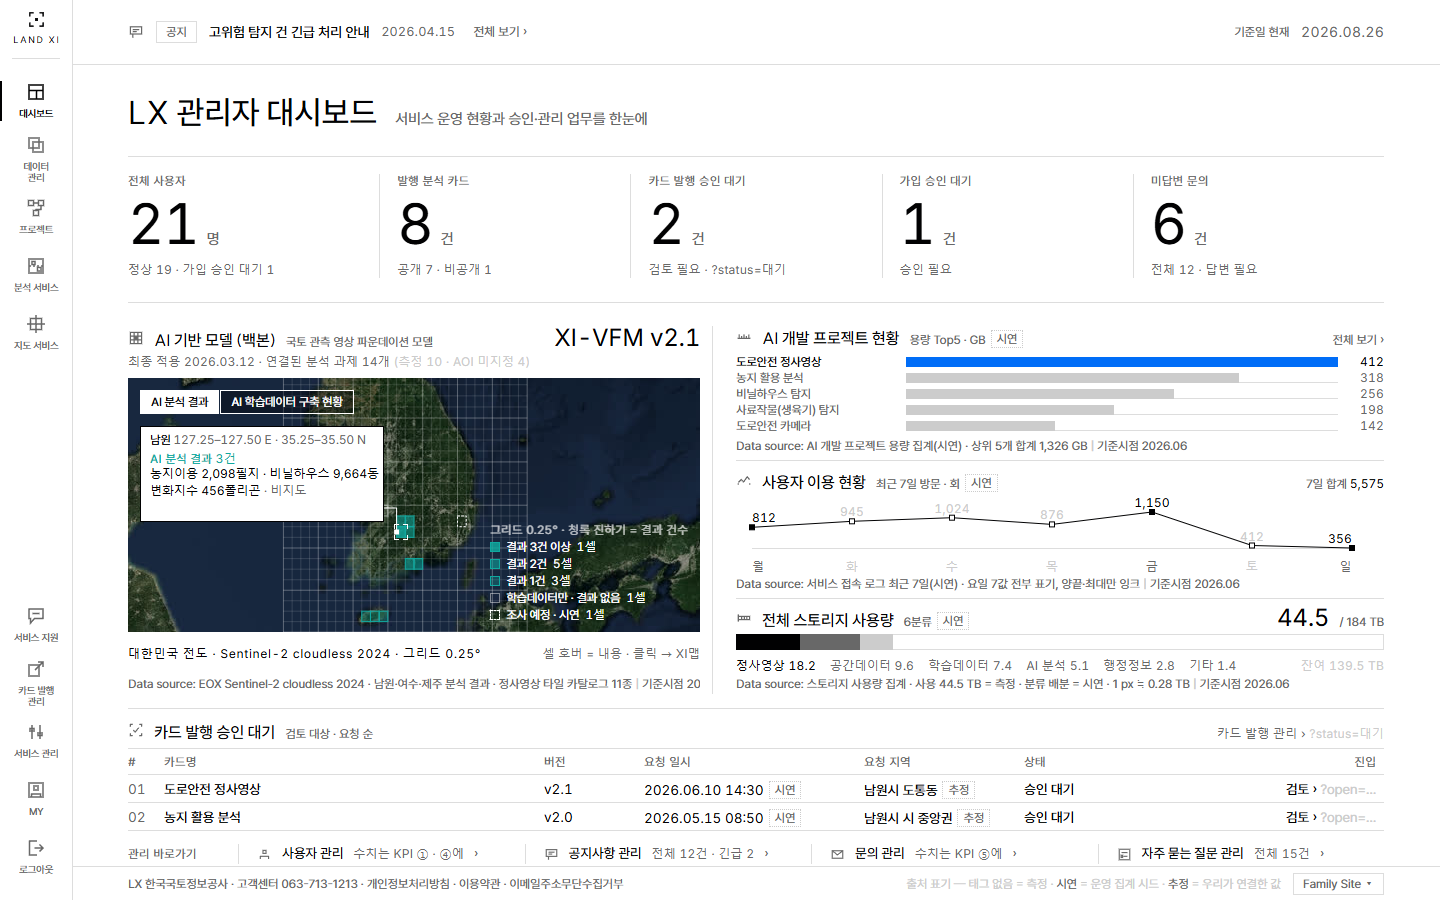
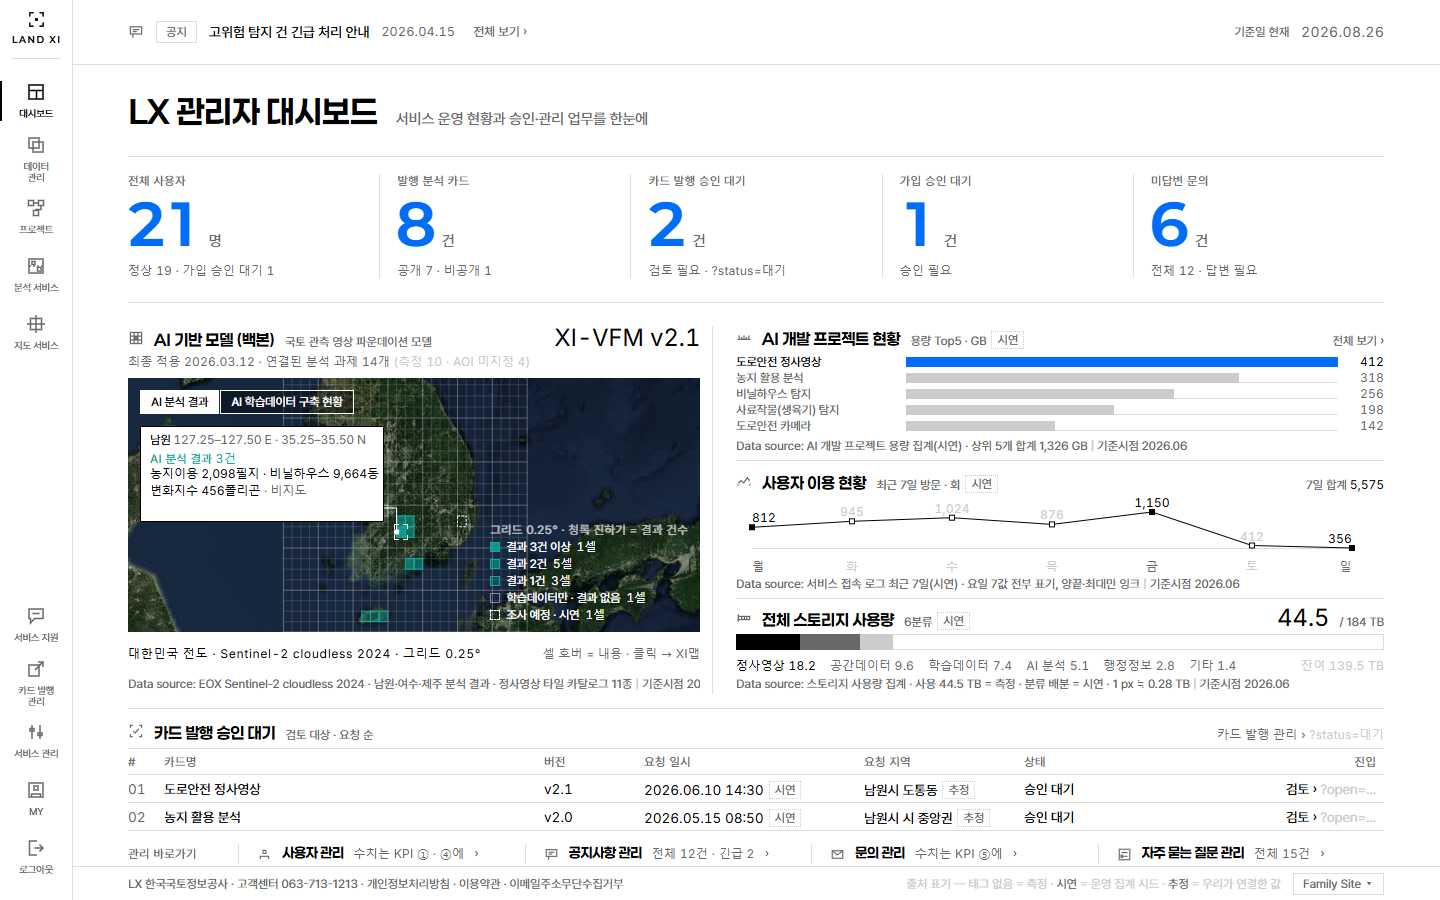
design(system): Paperlogy + Pretendard · T3 를 법전으로 — fonts-system.css 토큰, dataset T3 재스킨, B5 마스터 헬멧·KPI 액센트, NOTES §16
클라이언트 결정(2026-08-27, fonts.html T3): "일단 모든 글꼴과 스타일은 Paperlogy + Pretendard, T3로 간다."
- landxi/proto/fonts-system.css: Paperlogy 700/800 @font-face(눈누 jsDelivr) + Pretendard + Inter, --font-display/--font-body/--font-num, --accent, --tint-1 #E8F1FF, --tint-2 #D6E6FF
- design/system.md §1·§2 개정(표시 Paperlogy 700/800, 본문 Pretendard 400/500, 큰 숫자 Paperlogy·소형 표 Inter tnum, 액센트 허용 자리, 틴트, 채운 파란 버튼 금지)
- dataset.css: KPI 96% Paperlogy 700 액센트, 활성 칩 액센트+틴트, 링크·포커스 액센트, 선택 행 틴트
- B5-DataMgmt 마스터·gen-b5.mjs: 활성 칩 chip(t,n,on) 틴트, 설계 주석 문장 삭제(클라이언트 "불필요한 글자 전체 삭제")
- e2e proto-dataset: 칩·액센트 단언을 T3 로 갱신 (16/16 · proto-scrub 4/4)
- 앞선 부분(system.css·v3-tokens.css·scrub·film·charts·B5 헬멧)은 e26570b 에 함께 들어갔다.

Claude-Session: https://claude.ai/code/session_01WM9MJXSpdbCfwY8af3obk9

diff --git a/design-canvas/v2/B5-DataMgmt.dc.html b/design-canvas/v2/B5-DataMgmt.dc.html
@@ -64,7 +64,7 @@ body{margin:0;background:#FFFFFF;color:#010102;font-family:'Pretendard','Paperlo
 
 <div style="position:absolute;left:128px;top:19px;display:flex;align-items:baseline;gap:14px">
 <div class="d" style="font-size:21px;line-height:26px;letter-spacing:-.02em">데이터 관리</div>
-<div class="n" style="font-size:11px;letter-spacing:.02em;color:#686868">25건 · 업로드 6 · 완료 8 · 발행중 7 · 아카이브 4 — 원본 4탭을 한 그리드에 · 20 표시, 나머지는 스크롤</div></div>
+<div class="n" style="font-size:11px;letter-spacing:.02em;color:#686868">25건 · 업로드 6 · 완료 8 · 발행중 7 · 아카이브 4</div></div>
 <div style="position:absolute;right:56px;top:0;height:64px;display:flex;align-items:center;gap:14px">
 <div style="display:flex;align-items:baseline;gap:3px"><div class="d" style="font-size:64px;line-height:64px;letter-spacing:-.03em;color:#006DF7">96</div><div class="n" style="font-size:18px;color:#686868">%</div></div>
 <div style="display:flex;flex-direction:column;gap:4px">
@@ -74,7 +74,7 @@ body{margin:0;background:#FFFFFF;color:#010102;font-family:'Pretendard','Paperlo
 <div style="position:absolute;left:72px;top:64px;width:1368px;height:1px;background:#DDDDDD"></div>
 
 <div style="position:absolute;left:128px;top:80px;width:820px;height:28px;display:flex;align-items:center;gap:8px">
-<div style="display:flex;align-items:baseline;gap:6px;border:1px solid #010102;padding:6px 10px 6px;font-size:12px;letter-spacing:-.014em;color:#010102;white-space:nowrap">데이터 업로드<span class="n" style="font-size:11px;color:#686868">6</span></div><div style="display:flex;align-items:baseline;gap:6px;border:1px solid #010102;padding:6px 10px 6px;font-size:12px;letter-spacing:-.014em;color:#010102;white-space:nowrap">업로드 완료<span class="n" style="font-size:11px;color:#686868">8</span></div><div style="display:flex;align-items:baseline;gap:6px;border:1px solid #010102;padding:6px 10px 6px;font-size:12px;letter-spacing:-.014em;color:#010102;white-space:nowrap">레이어 발행중<span class="n" style="font-size:11px;color:#686868">7</span></div><div style="display:flex;align-items:baseline;gap:6px;border:1px solid #010102;padding:6px 10px 6px;font-size:12px;letter-spacing:-.014em;color:#010102;white-space:nowrap">아카이브<span class="n" style="font-size:11px;color:#686868">4</span></div>
+<div style="display:flex;align-items:baseline;gap:6px;border:1px solid #010102;padding:6px 10px 6px;font-size:12px;letter-spacing:-.014em;color:#010102;white-space:nowrap">데이터 업로드<span class="n" style="font-size:11px;color:#686868">6</span></div><div style="display:flex;align-items:baseline;gap:6px;border:1px solid #006DF7;background:#E8F1FF;padding:6px 10px 6px;font-size:12px;letter-spacing:-.014em;color:#006DF7;white-space:nowrap">업로드 완료<span class="n" style="font-size:11px;color:#686868">8</span></div><div style="display:flex;align-items:baseline;gap:6px;border:1px solid #010102;padding:6px 10px 6px;font-size:12px;letter-spacing:-.014em;color:#010102;white-space:nowrap">레이어 발행중<span class="n" style="font-size:11px;color:#686868">7</span></div><div style="display:flex;align-items:baseline;gap:6px;border:1px solid #010102;padding:6px 10px 6px;font-size:12px;letter-spacing:-.014em;color:#010102;white-space:nowrap">아카이브<span class="n" style="font-size:11px;color:#686868">4</span></div>
 <div style="display:flex;align-items:center;gap:8px;border:1px solid #DDDDDD;padding:6px 10px;font-size:12px;letter-spacing:-.014em;color:#686868;white-space:nowrap">형식 · 전체<svg width="9" height="6" viewBox="0 0 9 6" fill="none" stroke="#686868" stroke-width="1.25"><path d="M.5.5 4.5 5 8.5.5"/></svg></div><div style="display:flex;align-items:center;gap:8px;border:1px solid #DDDDDD;padding:6px 10px;font-size:12px;letter-spacing:-.014em;color:#686868;white-space:nowrap">유형 · 전체<svg width="9" height="6" viewBox="0 0 9 6" fill="none" stroke="#686868" stroke-width="1.25"><path d="M.5.5 4.5 5 8.5.5"/></svg></div>
 <div style="display:flex;align-items:center;gap:8px;width:150px;border-bottom:1px solid #010102;padding-bottom:5px;margin-left:8px">
 <svg width="13" height="13" viewBox="0 0 14 14" fill="none" stroke="#686868" stroke-width="1.25"><circle cx="6.2" cy="6.2" r="4.6"/><path d="M9.6 9.6 13 13"/></svg>
@@ -214,8 +214,7 @@ body{margin:0;background:#FFFFFF;color:#010102;font-family:'Pretendard','Paperlo
 <div style="display:flex;align-items:center;gap:10px;margin-top:26px">
 <div style="position:relative;width:120px;height:38px;display:flex;align-items:center;justify-content:center"><svg width="120" height="38" viewBox="0 0 120 38" style="position:absolute;left:0;top:0;display:block;pointer-events:none"><path d="M0 12V0h12M108 0h12v12M120 26v12h-12M12 38H0v-12" fill="none" stroke="#010102" stroke-width="1"/></svg><span class="d" style="font-size:14px;letter-spacing:.01em">취소</span></div>
 <div style="width:120px;height:38px;background:#010102;display:flex;align-items:center;justify-content:center"><span class="d" style="font-size:14px;color:#FFFFFF">발행</span></div>
-<div class="n" style="font-size:9.5px;letter-spacing:.03em;color:#686868;margin-left:6px;line-height:1.5">기준 일자 · 데이터명 필수<br>발행하면 <span style="color:#010102">?tab=publishing</span> 으로 옮겨진다</div></div>
-<div class="n" style="position:absolute;left:32px;bottom:18px;font-size:9.5px;letter-spacing:.04em;color:#CCCCCC">드로어는 우·하 마진을 뚫는다 — 이 화면의 일탈 1회</div>
+<div class="n" style="font-size:9.5px;letter-spacing:.03em;color:#686868;margin-left:6px;line-height:1.5">기준 일자 · 데이터명 필수</div></div>
 </div>
 </div>
 </x-dc>

diff --git a/landxi/proto/fonts-system.css b/landxi/proto/fonts-system.css
@@ -1,0 +1,27 @@
+/* Land-XI 글꼴 체계 — 클라이언트 결정(2026-08-27, landxi/proto/fonts.html T3):
+   "일단 모든 글꼴과 스타일은 Paperlogy + Pretendard, T3로 간다."
+   표시 Paperlogy 700/800 · 본문 Pretendard 400/500 · 소형 표 숫자 Inter tabular.
+   모든 프로토 페이지는 이 파일 하나만 불러온다(v3-tokens.css 가 @import 하므로 토큰을 쓰는 페이지는 자동). */
+
+/* @import 는 다른 규칙보다 앞에 와야 한다. */
+/* Pretendard — 정적 400/500(family 'Pretendard'). */
+@import url('https://cdn.jsdelivr.net/gh/orioncactus/pretendard@v1.3.9/dist/web/static/pretendard.min.css');
+/* Inter — 소형 표·좌표·캡션의 tabular 숫자. */
+@import url('https://fonts.googleapis.com/css2?family=Inter:wght@400;500&display=swap');
+
+/* Paperlogy — 눈누 배포(jsDelivr projectnoonnu/2408-3). fonts.html 에서 동작 확인한 소스 그대로. */
+@font-face{font-family:'Paperlogy';font-weight:800;font-style:normal;font-display:swap;
+  src:url('https://fastly.jsdelivr.net/gh/projectnoonnu/2408-3@1.0/Paperlogy-8ExtraBold.woff2') format('woff2')}
+@font-face{font-family:'Paperlogy';font-weight:700;font-style:normal;font-display:swap;
+  src:url('https://fastly.jsdelivr.net/gh/projectnoonnu/2408-3@1.0/Paperlogy-7Bold.woff2') format('woff2')}
+
+
+:root{
+  --font-display:'Paperlogy','Pretendard',system-ui,sans-serif;   /* 700 / 800 — H1·H2·KPI·워드마크 텍스트 */
+  --font-body:'Pretendard',system-ui,sans-serif;                   /* 400 / 500 */
+  --font-num:'Inter','Pretendard',system-ui,sans-serif;            /* 400, tabular-nums — 12px 안팎 표 숫자 */
+  /* T3 — 블루 액센트 + 틴트 */
+  --accent:#006DF7;
+  --tint-1:#E8F1FF;   /* 밴드·호버·선택 행 */
+  --tint-2:#D6E6FF;   /* 더 진한 선택·활성 칩 */
+}

diff --git a/landxi/proto/dataset.css b/landxi/proto/dataset.css
@@ -132,7 +132,7 @@ body[data-side]:not([data-side="none"]) #grid{ right:calc(var(--side) + 24px); }
 .shelf{ position:absolute; left:0; right:0; bottom:0; height:18px; background:var(--ink); display:flex; align-items:center; padding:0 8px; gap:8px; z-index:4; }
 .shelf .st{ font-size:9px; letter-spacing:.06em; color:#fff; white-space:nowrap; min-width:0; overflow:hidden; text-overflow:ellipsis; }
 .shelf .ax{ flex:none; }
-.shelf .st b{ font-weight:400; color:#8FBEFF; }   /* 잉크 선반 위 상태어 — 액센트의 밝은 대응값(대비) */
+.shelf .st b{ font-weight:400; color:var(--accent); }
 .shelf .ax{ margin-left:auto; display:flex; gap:0; white-space:nowrap; }
 .shelf .act{ font-size:9px; letter-spacing:.02em; color:rgba(255,255,255,.72); font-family:var(--font-num);
   transition:color var(--hov) var(--hove), transform var(--hov) var(--hove); }

diff --git a/design/system.md b/design/system.md
@@ -1,19 +1,23 @@
 # THE SYSTEM — Land-XI 디자인 법전 (구현 에이전트는 이 파일만 읽고 짠다)
 근거: docs/superpowers/specs/2026-08-25-client-taste-profile.md §4·§5·§7 (영상 iyRYc9sVRsw "THE SYSTEM 패널", cM5n9priMjo "명명 레이아웃·3-비평가")
 
-## 1. 서체 (정확히 3개, 더 없음)
-- 표시: **SUIT 500** 단일 굵기 — H1 64/80 · H2 52/57 · H3 32/40. letter-spacing −0.01em. 굵기로 크기를 대신하지 않는다.
-- 본문: **Pretendard 400** — 16/23(한글 행간 1.6), 라벨 12/14(1.2).
-- 숫자·좌표·캡션: **Inter 400 tabular** — 통계 124px(본문의 7.75배), 헤드라인 카운트 52px, 캡션 12px, letter-spacing 0.02–0.04em.
-- 금지: Gothic A1, IBM Plex, Inter를 본문에 쓰는 것, 제3의 서체.
+## 1. 서체 (정확히 3개, 더 없음) — 2026-08-27 개정
+> 클라이언트 결정(2026-08-27, `landxi/proto/fonts.html` 후보 36종 비교 → T3 선택): **"일단 모든 글꼴과 스타일은 Paperlogy + Pretendard, T3로 간다."** 이전 SUIT 500 규정은 폐기.
+- 표시: **Paperlogy 700**(H1·H2·H3·KPI 숫자·마스트헤드), **800**은 워드마크 텍스트(`LAND-XI PLATFORM`)·초대형 통계에만 — H1 64/80 · H2 52/57 · H3 32/40. letter-spacing −0.01em. 웹폰트는 눈누 jsDelivr(`projectnoonnu/2408-3`) 700/800 두 파일뿐 — 그 외 굵기를 지정하지 않는다.
+- 본문: **Pretendard 400**(본문 16/23, 한글 행간 1.6) · **500**(강조·버튼·탭 라벨). 라벨 12/14(1.2).
+- 숫자: 큰 숫자(KPI·통계 ≥ 32px)는 **Paperlogy 700**, 소형 표·좌표·캡션(≤ 14px)은 **Inter 400 tabular** — letter-spacing 0.02–0.04em. Paperlogy는 tnum 이 없으므로 자릿수가 바뀌며 흐르는 표 숫자는 Inter.
+- 토큰: `--font-display` `--font-body` `--font-num` (`landxi/proto/fonts-system.css`, 모든 프로토 페이지가 이 파일을 불러온다. `--lx-display`·`--v3-display` 는 이 토큰의 별칭).
+- 금지: SUIT, Gothic A1, IBM Plex, Inter를 본문에 쓰는 것, 제3의 서체.
 
-## 2. 색 (정확히 이 값, 분량 90/8/2)
+## 2. 색 (정확히 이 값, 분량 90/8/2) — 2026-08-27 T3 개정
+> 톤 결정: `fonts.html` **T3 "블루 액센트 + 틴트"** (paper #FFFFFF · ink #010102 · accent #006DF7 · tint #E8F1FF · tint-2 #D6E6FF · rule #DDDDDD · sub #686868). 잉크 체계는 그대로, 액센트의 허용 범위와 틴트 두 단을 더한다.
 - 바탕 `#FFFFFF`(90%). 잉크 `#010102`.
 - 회색 `#686868`(보조 텍스트) · `#CCCCCC`(비활성) · 헤어라인 `#DDDDDD`(8%).
-- 액센트 **`#006DF7` 한 번**(2%) — 데이터·활성 상태에만. 브랜드 마크는 잉크.
+- 액센트 **`#006DF7`**(2%) — 허용 자리: **KPI 큰 숫자 · 상태어 · 링크 · 포커스 링 · 선택 행/칩의 글자와 테두리**. 브랜드 마크는 잉크. **채운 파란 버튼은 여전히 없다**(포커스 링 제외) — 1차 버튼은 잉크 채움, 2차는 코너 브래킷.
+- 틴트 `--tint-1 #E8F1FF`(밴드·호버·선택 행) · `--tint-2 #D6E6FF`(더 진한 선택·활성 칩). 틴트는 면에만, 글자색으로 쓰지 않는다.
 - 앰버 `#FFB633` — 탐지/정지점 순간 380ms만. 그 외 어디에도 없음.
 - 청록 `#0FA9A0` — AI 결과 폴리곤/필라멘트 전용.
-- 금지: 그라디언트, 유리(backdrop-filter), 그림자, 라운드(0), 제3의 텍스트 색, 상태색 남용.
+- 금지: 그라디언트, 유리(backdrop-filter), 그림자, 라운드(0), 제3의 텍스트 색, 상태색 남용, 채운 파란 버튼.
 
 ## 3. 좌표·그리드 (1440 기준)
 - 좌 레일 **72px**(원본 11개 메뉴, 원본 라벨 순서), 마스트헤드 **64px** 헤어라인.
